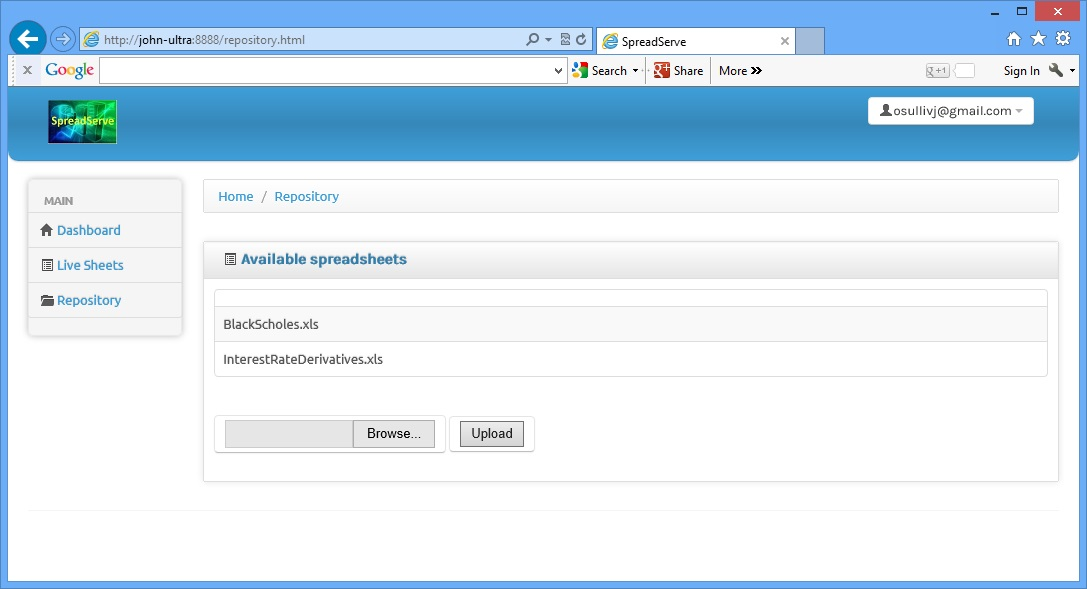
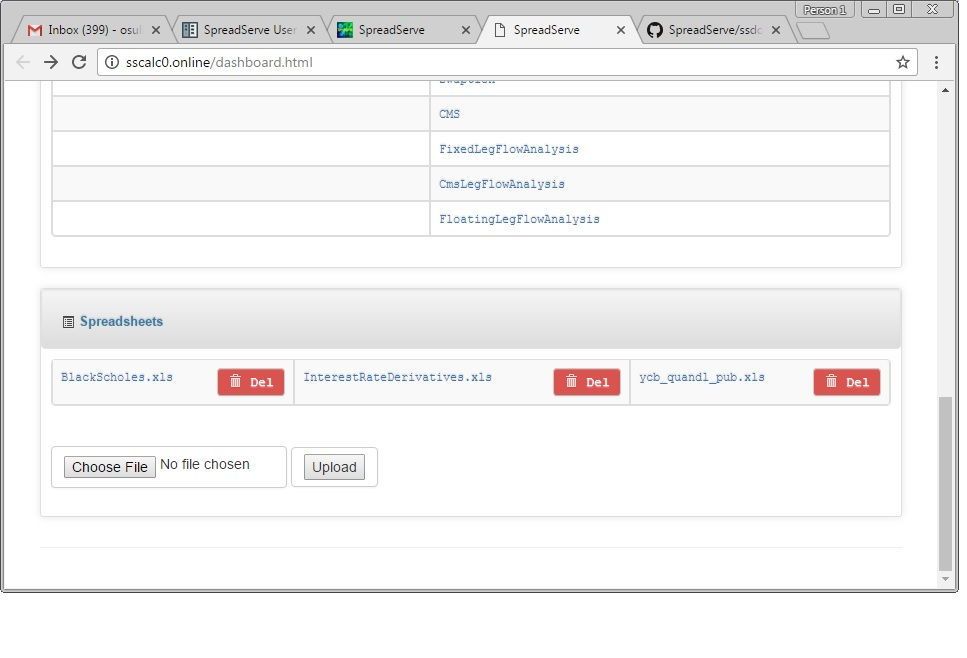
updates for 0.4.2 release

diff --git a/guide.rst b/guide.rst
@@ -36,14 +36,14 @@ When you've logged in you should see a page like this in your browser...
 .. image:: img/ss_dash.jpg 
     :alt: SpreadServe dashboard
     
-This is the dashboard page. It's used for starting and stopping SpreadServe processes, examining their log files and
-loading spreadsheets into running instances of the SpreadServeEngine. You can navigate back to this page at any time
-by clicking the dashboard link on the left. The main table in the page gives the process ID of each process, its name,
-its status, and a set of buttons for operations. You can use the process ID to lookup the process in Windows Task Manager
-if you're logged on to the server hosting SpreadServe.
+This is the SpreadServe dashboard. It's used for starting and stopping SpreadServe processes, examining their log files and
+loading spreadsheets into running instances of the SpreadServeEngine. The top table in the page gives the process ID of each
+process, its name, its status, and a set of buttons for operations. You can use the process ID to lookup the process in
+Windows Task Manager if you're logged on to the server hosting SpreadServe.
 
 * Log: clicking this button for any process will show you the current log file for the process. The file will be in the
-  %TEMP% directory. The file is displayed 'raw' in the browser, so you'll need to use the back button to return to the dashboard page.
+  %TEMP% directory. The file is displayed 'raw' in the browser, so you'll need to use the back button to return to the
+  dashboard page.
 * Kill: in normal operations you should only use this to kill of instances of SpreadServeEngine.
 * Run: clicking the Run button next to SpreadServeEngine will create another engine instance.
   You need one instance of the SpreadServeEngine for each spreadsheet you're running.
@@ -55,49 +55,43 @@ if you're logged on to the server hosting SpreadServe.
 * Calc: instruct a SpreadServeEngine to recalculate a sheet. Equivalent to doing shift-ctrl-alt-F9 in Excel.
 * RTD: invoke ServerTerminate on any RTD servers that are loaded.
 
-At the top right of the table of processes the middle, down arrow, button will reveal a complete list of 
+At the top right of the table of processes the 'show dead' check box hides or reveals a complete list of 
 processes that includes dead or not yet started processes.
 
 **User Interface: Live Sheets**
-If you use the SpreadServeEngine Load button to load the Black Scholes.xls spreadsheet, then click on Live Sheets,
-you shoud see something like this...
+If you use the SpreadServeEngine Load button to load the InterestRateDerivatives.xls spreadsheet, then scroll down
+to the Running Sheets table, you should see something like this...
 
 .. image:: img/ss_live1.jpg 
-    :alt: One live sheet
-
-And if you return to the dashboard page and launch a new SpreadServeEngine instance with the Run button, 
-and then use the Load button for that new instance to load up InterestRateDerivatives.xls, then this is what you should see...
-
-.. image:: img/ss_live2.jpg 
-    
+    :alt: Two live sheets
+   
 Naturally, all the live sheets within a live spreadsheet are clickable links that will take you through to a view of that sheet.
-Try clicking on Black-Scholes Model and you should see this...
+Try clicking on Swaps under InterestRateDerivatives.xls and you should see this...
 
 .. image:: img/ss_live3.jpg 
 
 This is just what you'd see in Microsoft Excel if you loaded the same SpreadSheet. Try it and see for yourself.
-You can find the spreadsheet in the SpreadServe directory tree at ``py/http/repo/BlackScholes.xls``. Now in Excel all
-the cells are editable, both those with formulae, and those holding raw data. You can change the cells in and see
-the spreadsheet recalc. In the SpreadServe GUI you can change the raw data cells, but you can't edit the formula cells. 
+You can find the spreadsheet in the SpreadServe directory tree at ``py/http/repo/InterestRateDerivatives.xls``.
+Now in Excel all the cells are editable, both those with formulae, and those holding raw data. You can change the cells
+and see the spreadsheet recalc. In the SpreadServe GUI you can change the raw data cells, but you can't edit the formula cells. 
 In the SpreadServe GUI try clicking on any of the cells that have the dot dot dot underlining. You'll see a pop up that
 will allow you to change the data. If you do, the spreadsheet will recalc and you'll see the changed values in your
 browser, just as you would in Excel. But with SpreadServe, there could be any number of browsers looking at that live
 sheet, and they'd all see the same data, and the same recalculation.
 
 **User Interface: Repository**
-Clicking the Repository link to the left will show you a list of the spreadsheets available for loading with the Load button on the dashboard page...
+On the dashboard page, scroll right down to the last table. You'll see a list of the spreadsheets available for loading
+with the Load button on the dashboard page...
 
 .. image:: img/ss_repo.jpg 
     :alt: SpreadServe repository
 
-The repository page also allows you to upload spreadsheets from your local file system. Hit the browse button to select a spreadsheet.
+The repository table also allows you to upload spreadsheets from your local file system. Hit the browse button to select a spreadsheet.
 When you've OKed the file selection dialog, hit the Upload button to persist the spreadsheet in the repository directory on the server. 
-Next time you hit the load button you're spreadsheet listed.
+Next time you hit the load button your spreadsheet will be listed.
 
 **Constraints**
 
-* Currently SpreadServe can only handle Excel 97-2003 .xls formatted spreadsheets. Excel 2007 and up .xlsx formatted sheets are on our road map. 
-  But for the time being, please use Excel to do a 'Save As' .xls to prepare your spreadsheets for uploading to SpreadServe.
 * Limited VBA support. SpreadServe does not support XLAMs. Only embedded VBA can be used. Range can't be used as parameter type. Parameters
   should be built in types only: ints, floats, strings.
 * Processes run with elevated permissions access the registry differently, which can prevent `Excel-DNA <https://github.com/Excel-DNA>`_
@@ -137,7 +131,7 @@ are supplied with SpreadServe: BlackScholesMockMarketData and dblog.
 One of the sample connector programs supplied with SpreadServe injects mock market data into the Black Scholes spreadsheet.
 You can run BlackScholesMockMarketData like this::
 
-    cd c:\SpreadServe\ss0.2.0\py\smpl
+    cd c:\SpreadServe\ss0.4.2\py\smpl
     ..\..\sh\sspy black_scholes_mock_mkt_data.py -ENV SIT
     
 Note that you may need to change the path and environment name to match your install. Once BlackScholesMockMarketData is running,
@@ -151,12 +145,12 @@ spreadsheet, and take its data from a real time market data system.
 dblog consists of two processes; one coded in Java, for JDBC DB connectivity, and one in Python, built on SpreadServe's SocketServer
 implementation. Here's how you launch the Python SocketServer part of dblog::
 
-    cd c:\SpreadServe\ss0.2.0\py\sock
+    cd c:\SpreadServe\ss0.4.2\py\sock
     ..\..\sh\sspy dblog.py -ENV SIT
     
 And this is how you launch the Java process::
 
-    cd c:\SpreadServe\ss0.2.0\sh
+    cd c:\SpreadServe\ss0.4.2\sh
     dbconn
     
 There are several configuration dependencies here, and this will only work out of the box if you have a MySQL install on your SpreadServe host.
@@ -185,11 +179,11 @@ not using MySQL, you'll need to add the relevant JDBC driver to the lib director
 
 To add an XLL to your SpreadServe deployment you need to edit ``cfg\xll.txt``. In the standard install it looks like this::
 
-    file:///c:/SpreadServe/ss0.2.0/bin/xlcall32.dll;cdecl;refreshdata
-    file:///c:/SpreadServe/ss0.2.0/bin/quantlibxl-vc110-mt-s-1_4_0.xll;cdecl;refreshdata
-    file:///c:/SpreadServe/ss0.2.0/bin/SSAddin.xll;stdcall;refreshdata
+    file:///c:/SpreadServe/ss0.4.2/bin/xlcall32.dll;cdecl;refreshdata
+    file:///c:/SpreadServe/ss0.4.2/bin/quantlibxl-vc110-mt-s-1_4_0.xll;cdecl;refreshdata
+    file:///c:/SpreadServe/ss0.4.2/bin/SSAddin.xll;stdcall;refreshdata
 
-To add your XLL, copy it to the ``ss0.2.0\bin`` directory, then add another line to xll.txt modelled on the the lines that reference xlcall32.dll
+To add your XLL, copy it to the ``ss0.4.2\bin`` directory, then add another line to xll.txt modelled on the the lines that reference xlcall32.dll
 and the QuantLib XLL. Note that each line has three parts separated by semicolons. Firstly the path to the XLL, then the calling convention, and 
 finally an RTD switch. The calling convention should be ``cdecl`` or ``stdcall``; XLLs implemented in C++ will probably be ``cdecl``, and those in
 C# ``stdcall``. However this is not a hard and fast rule, and if you're not sure which calling convention your XLL uses then examine it with

diff --git a/config.rst b/config.rst
@@ -8,20 +8,22 @@ sseng.exe uses it to determine the location of various resources including dynam
 the xll.txt file that specifies the XLLs to be loaded. Most of the settings are purely internal; two may be
 of interest to users.
 
+
+* ``LICENSE_FILE``: path to the license key file, which can contain an offline key to stop the SpreadServeEngine
+  phoning home to spreadserve.com.
+* ``DNS_HOST_NAME``: path to a flat text file containing a hostname. If the file exists, SpreadServeEngine will
+  use this hostname when phoning home to spreadserve.com.
+* ``OWNER``: the email address associated with this SpreadServe host by spreadserve.com.
+* ``FORMAT_LOADING``: switches cell formatting on or off when loading xlsx files. No impact on xls handing.
 * ``XLL_CFG_FILE``: path to the file that specifies the XLLs to be loaded.
 * ``XLL_REG_FILE``: path to the file sseng.exe uses to dump signatures of XLL worksheet functions
   that have been successfully registered.
 
 **RealTimeWebServer configuration**
 
-The RealTimeWebServer implementation is all in one Python module: ``%SSROOT%\py\http\rtwebsvr.py``, which has
-several global variables you can change to configure its behaviour. Look for the section near the top
-with the Config comment. If you want to change the port that RealTimeWebServer listens on then change
-this line::
-
-    define( "port", default=8888, help="run on the given port", type=int)
-
-Below the port config line are several variables...
+The RealTimeWebServer implementation is mostly in one Python module: ``%SSROOT%\py\http\rtwebsvr.py``, which has
+gets configuration variables from ``%SSROOT%\cfg\webcfg.py``. If you want to switch SpreadServe to work with
+Active Directory authentication, rather than it's default social login, then edit webcfg.py
 
 * ``ADGroupMappings``: a dictionary defining the Active Directory groups that for which user
   membership will give view, edit or admin permissions.
@@ -38,16 +40,6 @@ Below the port config line are several variables...
     admin permission can start and stop SpreadServe processes via the dashboard, and upload
     new spreadsheets to the repository via the repository page.
     
-* ``ssroot``: defaults to the value of the ``SSROOT`` environment variable. It is unlikely
-  you'll need to change this.
-* ``DefaultRepoDir``: path for the repository RealTimeWebServer serves as ``/repository.html``. Uploaded
-  spreadsheets are saved here. When you click the ``Load`` button on the Dashboard page you're offered
-  a list of the repository contents to load.
-* ``AideName``: process name used for rtwebsvr.py in the dashboard.
-* ``DefaultProcessName``: process name used for rtwebsvr.py when no command line parameters are supplied in a
-  command line launch.
-* ``DefaultCmdLine``: command line parameters used when they're not supplied at the command line.
-
 
 **SpreadServe Command line parameters**
 
@@ -57,6 +49,8 @@ part of their behaviour. You'll see the parameters used in the shell scripts in 
 launch files in ``%SSROOT%\cfg``. Command line options are always presented with a leading hyphen and a following
 value eg ``-ENV SIT -NAME DBLogServer``.
 
+* ``HTTP_PORT``: supply this on the rtwebsvr.py command line to change the RealTimeWebServer port. For example
+  ``-HTTP_PORT 80`` to run on port 80.
 * ``ENV``: Mandatory. Environment that this SpreadServe process belongs to. Several environments can co-exist on the
   same host as components will only recognise and communicate with components in the same named environment.
 * ``NAME``: Optional. C++ processes will default to the exe name on the dashboard page, and Python processes will
@@ -106,5 +100,3 @@ made profiles are supplied in the ``%SSROOT%\cfg`` directory. They are...
 * ``baseweb``: launches the same three processes as ``base``, but with the addition of the RealTimeWebServer.
 * ``demo``: same as ``baseweb``, but adds BlackScholesMockMarketData to pump fake market data into the BlackScholes.xls
   example sheet.
-* ``blockweb``: same as ``baseweb``, with the addition of the BlockServer, which will listen for calc requests from
-  the Blockspring SpreadServe Block.

diff --git a/spec.rst b/spec.rst
@@ -5,19 +5,20 @@ SpreadServe Tech Spec
 
 SpreadServe is a Windows Server hosted server product with a web UI.
 
-* OSes: any Windows desktop OS from Windows 7, and any server OS from 2003. SpreadServe has been tested on Windows 7, Windows 8 and Windows Server 2008.
-* User interface: web UI built with `Bootstrap <http://getbootstrap.com/>`_ 2.0.4 and `jQuery <http://jquery.com/>`_ 1.7.1 enabling job control and
-  spreadsheet interaction from a browser.
+* OSes: any Windows desktop OS from Windows 7, and any server OS from 2003. SpreadServe has been tested on Windows 7, Windows 8, 
+  Windows Server 2008 & 2012.
+* User interface: web UI built with `Angular <http://angularjs.org>`_ 1.5, <http://`Bootstrap <http://getbootstrap.com/>`_ 3.3 and `jQuery <http://jquery.com/>`_ 2.2
+  enabling job control and spreadsheet interaction from a browser.
 * APIs: Python. C++ and Java APIs exist in prototype form. The Python API supports integrations and unit testing of spreadsheets.
 * Core implementation: SpreadServe's native implementation language is C++ built as 32 bit binaries with Microsoft Visual C++ 9.
 * VBA: SpreadServe supports VBA macros.
 * XLL: SpreadServe supports XLL addins, and has been tested with the `QuantLib <http://quantlib.org/index.shtml>`_ 1.4.0 addin.
 * RTD: SpreadServe supports RTD updates.
-* Excel file formats: Excel 97-2003 .xls is currently supported. The later Excel .xlsx format is in development.
+* Excel file formats: Excel 97-2003 .xls as well as the default Excel .xlsx format are supported.
 * RDBMS: the dblog component enables logging of all SpreadSheet operations to an RDB.
   SpreadServe has been tested with `MySQL <http://www.mysql.com/>`_ 5.6, and should work with any RDB that has a JDBC driver.
 * Sockets: The SocketServer enables connections from processes based on other hosts and implementation technologies.
 * Open Source Software: SpreadServe uses several powerful OSS technologies as building blocks.
   They include `Tornado <http://www.tornadoweb.org/en/stable/>`_, `Python <https://www.python.org/>`_,
   `STLport <http://www.stlport.org/>`_ , `Boost <http://www.boost.org/>`_ and `Apache Open Office <https://www.openoffice.org/>`_.
-* Cloud ready: SpreadServe has been deployed and tested on an `Amazon EC2 <http://aws.amazon.com/ec2>`_ Windows 2008 AMI.
+* Cloud ready: SpreadServe has been deployed and tested on `Amazon EC2 <http://aws.amazon.com/ec2>`_ Windows 2008 & 2012 AMIs.
